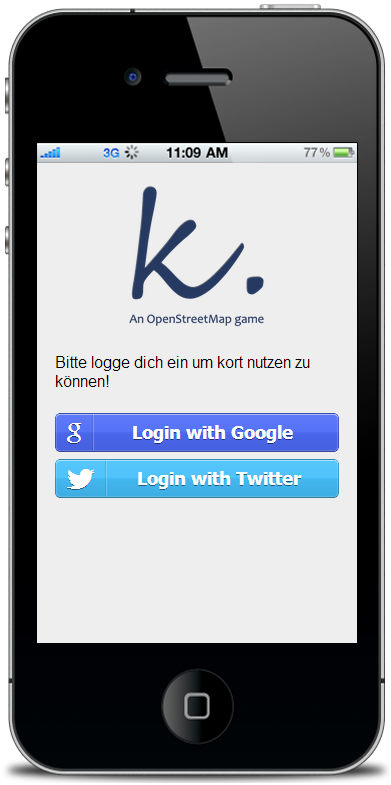
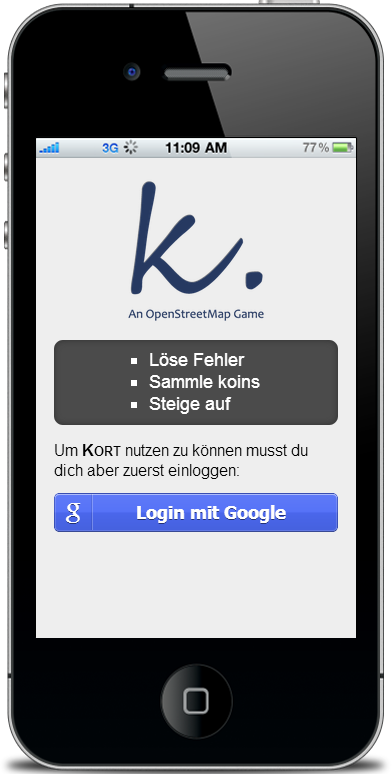
documented implementation

diff --git a/_DOCUMENTATION/02_Documentation/body/implementation.tex b/_DOCUMENTATION/02_Documentation/body/implementation.tex
@@ -2,7 +2,13 @@
 \label{kort}
 
 \begin{center}
-\includegraphics[scale=0.8]{images/implementation/kort-icon_with_gloss}
+\begin{figure}[H]
+\begin{center}
+\subfigure{\includegraphics[scale=0.8]{images/implementation/kort-icon_with_gloss}}
+\hspace{1cm}
+\subfigure{\includegraphics[scale=0.8]{images/implementation/kort_herokuapp_com-qrcode}}
+\end{center}
+\end{figure}
 
 {\large \textbf{\url{http://kort.herokuapp.com/}}}
 
@@ -11,9 +17,9 @@
 \begin{figure}[H]
 \subfigure{\includegraphics[width=0.3\textwidth]{images/screenshots/kort-screenshot-login}}
 \hfill
-\subfigure{\includegraphics[width=0.3\textwidth]{images//screenshots/kort-screenshot-choose_username}}
-\hfill
 \subfigure{\includegraphics[width=0.3\textwidth]{images/screenshots/kort-screenshot-bugmap}}
+\hfill
+\subfigure{\includegraphics[width=0.3\textwidth]{images/screenshots/kort-screenshot-profile}}
 \end{figure}
 \end{center}
 
@@ -34,7 +40,7 @@
 
 \subsection{Paper-Prototype}
 Vor der Implementation der Oberfläche wurde ein Paper-Prototype des GUI-Designs erstellt.
-Der Prototype besteht aus vier verschiedenen Hauptmasken und einem Overlay für den Login.
+Der Prototype besteht aus vier Hauptmasken und einem Overlay für den Login.
 
 \subsubsection{Overlay: Login}
 Beim ersten Starten der \gls{WebApp} erhält man die Möglichkeit sich über verschiedene Dienste anzumelden.
@@ -92,3 +98,136 @@ Die Profil-Maske bietet zudem die Möglichkeit sich von der App abzumelden.
 \hfill
 \subfigure[Profil]{\includegraphics[width=0.43\textwidth]{images/paperprototype/kort-pp-profile}}
 \end{figure}
+
+% Design
+\section{Design}
+
+% Implementation
+\section{Implementation}
+
+\subsection{Starten der App}
+Beim Starten der App wird duch mehrere Entscheidungen festgelegt, welche Maske dem Benutzer angezeigt wird. In Abbildung \ref{image-kort-startup-activitydiagram} ist der Ablauf grob dargestellt.
+
+\begin{figure}[H]
+	\centering
+	\includegraphics[scale=0.55]{images/uml/kort-startup-activitydiagram}
+	\caption{Ablauf beim Starten der App}
+	\label{image-kort-startup-activitydiagram}
+\end{figure}
+
+Schlussendlich wird dem Benutzer eine der folgenden Masken angezeigt:
+
+\begin{itemize}
+\item Geolocation Fehler Maske: Wenn Geolocation nicht gelesen werden kann.
+\item Login Maske: Wenn Benutzer noch nicht eingeloggt ist
+\item Erste Schritte Maske: Wenn Benutzer noch keinen Benutzernamen gewählt hat
+\item Hauptmaske: Falls alles andere geklappt hat
+\end{itemize}
+
+\subsection{Sencha Cmd}
+\label{sencha-cmd}
+Das Grundgerüst der App wurde komplett mit dem Sencha-eigenen Build-Tool \emph{Sencha Cmd 3.0.0}\footnote{\url{http://www.sencha.com/products/sencha-cmd}} generiert.
+Dieses bietet verschiedene Build-Möglichkeiten an:
+
+\begin{table}[H]
+\centering
+\begin{tabular}{|p{0.2\twocelltabwidth}|p{0.8\twocelltabwidth}|}
+\hline
+\textbf{Build} & \textbf{Beschreibung} \\
+\hline
+testing & Bei diesem Build werden die JavaScript-Quelldateien in einer Datei zusammengefasst. Zusätzlich werden lediglich die verwendeten Dateien kopiert. \\
+\hline
+production & Der Production-Build entspricht grundsätzlich dem Testing-Build. Zusätzlich werden aber noch die JavaScript-Quelldateien komprimiert. \\
+\hline
+package/native & Mit diesen Builds lassen sich native Apps für die verschiedenen mobilen Betriebssysteme generieren. \\
+\hline
+\end{tabular}
+\caption{Verschiedene Build-Möglichkeiten mit Sencha Cmd}
+\label{table-sencha-cmd-build}
+\end{table}
+
+Durch den Einsatz von Sencha Cmd wird es möglich mit einem geringen Mehraufwand, eine native App zu generieren und diese in den verschiedenen App-Stores (Apples AppStore, Google Play Store) anzubieten.
+
+\subsubsection{Konfiguration}
+Der Buildprozess wird in der Datei \inlinecode{app.json} konfiguriert.
+
+\begin{table}[H]
+\centering
+\begin{tabular}{|p{0.2\twocelltabwidth}|p{0.8\twocelltabwidth}|}
+\hline
+\textbf{Property} & \textbf{Beschreibung} \\
+\hline
+\inlinecode{"js"} & Hier können die JavaScript-Quelldateien, welche von der App verwendet werden eingetragen werden. Diese werden im Buildprozess automatisch in den \inlinecode{<head>}-Bereich des \inlinecode{index.html}-Files geschrieben. \\
+\hline
+\inlinecode{"css"} & Ähnlich wie das \inlinecode{"js"}-Property nur für CSS-Ressourcen. \\
+\hline
+\inlinecode{"ressources"} & Hier können weitere Ressourcen wie Grafiken oder Libraries angegeben werden. \\
+\hline
+\end{tabular}
+\caption{Wichtige Konfigurations-Eigenschaften in Sencha Cmd (app.json)}
+\label{table-sencha-cmd-appjson}
+\end{table}
+
+Zusätzlich ist in der Datei \inlinecode{.sencha/app/sencha.cfg} der Classpath für die App definiert.
+
+Weitere Informationen zur Konfiguration findet man im entsprechendem Guide der Sencha Docs\footnote{\url{http://docs.sencha.com/touch/2-1/\#!/guide/command\_app}}.
+
+\subsection{Internernationalisierung (i18n)}
+\label{i18n}
+Die Oberfläche von \textsc{Kort} wurde bereits für eine mögliche Übersetzung vorbereitet.
+Dazu wurde das Plugin \emph{Ext.i18n.Bundle-touch}\footnote{\url{https://github.com/elmasse/Ext.i18n.Bundle-touch}} für Sencha Touch eingesetzt. Dieses ermöglicht es einzelne Texte in externen Sprach-Property-Files auszulagern.
+
+Bei \textsc{Kort} befinden sich diese Files im Verzeichnis \inlinecode{/resources/i18n/} und müssen nach folgendem Schema benannt werden: \inlinecode{Kort\_<locale>.props}.
+Die verwendete Sprache ist in der Funktion \inlinecode{prepareI18n()} der Datei \inlinecode{app.js} festgelegt.
+
+\lstset{language=JavaScript}
+\begin{lstlisting}[caption=kort - Sprache definieren, label=kort-choose-language]
+prepareI18n: function() {
+	Ext.i18n.Bundle.configure({
+		bundle: 'Kort',
+		language: 'de-CH',
+		path: 'resources/i18n',
+		noCache: true
+	});
+}
+\end{lstlisting}
+
+Hier kann über das \inlinecode{language}-Property die Sprache konfiguriert werden.
+Falls das Property weggelassen wird, wird die aktuelle Spracheinstellung des Browsers verwendet.
+Wird dabei die entsprechende Datei nicht gefunden, verwendet das Plugin die Datei \inlinecode{Kort.props}.
+
+% Testing
+\section{Testing}
+
+% Resultate
+\section{Resultate}
+
+\subsection{Bekannte Fehler}
+
+\subsubsection{iOS - Add to homescreen}
+Eine sehr nützliche Funktionalität, welche Apple im Mobile Safari-Browser anbietet ist die \emph{Add to homescreen}-Funktion.
+
+\begin{figure}[H]
+\subfigure{\includegraphics[width=0.23\textwidth]{images/bugs/kort-add_to_homescreen_1}}
+\hfill
+\subfigure{\includegraphics[width=0.23\textwidth]{images/bugs/kort-add_to_homescreen_2}}
+\hfill
+\subfigure{\includegraphics[width=0.23\textwidth]{images/bugs/kort-add_to_homescreen_3}}
+\hfill
+\subfigure{\includegraphics[width=0.23\textwidth]{images/bugs/kort-add_to_homescreen_4}}
+\caption{iOS - "`Add to homescreen"'-Funktion}
+\end{figure}
+
+Dadurch wird ein App-ähnlicher Bookmark der aktuellen Webseite auf dem Homescreen erstellt.
+Dieser erhält ein hinterlegtes Icon und einen Titel.
+Beim Starten der App erscheint ein Splashscreen, welchen man ebenfalls in der Webseite definieren kann. Zudem öffnet sich der Browser ohne jegliche Toolbars wie der Adressleiste oder der Navigationsbar.
+
+Leider hat die verwendete Version (2.1.0) des Sencha Touch Frameworks Fehler bei der Anzeige von einigen GUI-Komponenten.
+So werden in unserem Fall die Karte (Aufträge) und alle Listen (Prüfen, Highscore) nicht korrekt dargestellt.
+
+\subsubsection{App Build}
+Wie in Abschnitt \ref{sencha-cmd} beschrieben, basiert die App vollständig auf dem Sencha-eigenen Build-Tool \emph{Sencha Cmd 3.0.0}. Darin sind aber noch einige Bugs vorhanden.
+
+Bei \textsc{Kort} besteht dabei ein Problem bei der fest eingebauten Komprimierung der JavaScript-Sourcen.
+Während diesem Prozess werden lokale Variablennamen mit einzelnen Buchstaben abgekürzt.
+Dabei treten Konflikte mit der Leaflet-Library auf, welche den Buchstaben \emph{L} als Namespace verwendet. 

diff --git a/_DOCUMENTATION/02_Documentation/body/projektmanagement_monitoring/sprint1.tex b/_DOCUMENTATION/02_Documentation/body/projektmanagement_monitoring/sprint1.tex
@@ -3,7 +3,7 @@
 \todo[inline]{Text anpassen für Sprint 1}
 
 Alle Informationen zum Sprint 1 sind auch in unserem Wiki zu finden:
-\url{http://redmine.rdmr.ch/redmine/projects/gftprototype/wiki/Sprint_1}
+\url{http://kort.rdmr.ch/redmine/versions/1}
 
 \subsubsection{Hauptaufgaben / Fokussierung im Sprint}
 
@@ -11,35 +11,41 @@ Alle Informationen zum Sprint 1 sind auch in unserem Wiki zu finden:
 	\item Aufsetzen der Infrastruktur (Repository, Projektmanagement, Entwicklungsumgebung, Server)
 	\item Einarbeitung in die Thematik
 	\begin{itemize}
-		\item GIS
-		\item Google Fusion Tables (GFT)
+		\item Gamification
+		\item Highscore API (?)
+		\item OpenStreetMap
+		\item OpenLayers
 		\item allenfalls weitere \gls{API}s
 	\end{itemize}
-	\item Erarbeitung eines ersten Roundtrips um Daten von und zu Google Fusion Tables zu schicken/empfangen
+	\item Wrapper für OpenStreetMap in Sencha Touch
 	\item Projektsetup
 	\begin{itemize}
 		\item GitHub\footnote{\url{http://www.github.com}} als Repository
-		\item LaTex\footnote{\url{http://www.latex-project.org}} für Dokumentation
-		\item Jenkins \footnote{\url{http://jenkins-ci.org}} für Continuous Integration (CI)
+		\item \LaTeX{}\footnote{\url{http://www.latex-project.org}} für Dokumentation
+		\item Heroku\footnote{\url{http://www.heroku.com}} fürs Hosting
+		\item Travis \footnote{\url{http://travis-ci.org}} für Continuous Integration (CI)
 		\item Redmine \footnote{\url{http://www.redmine.org}} für Projektmanagement/Wiki/Bugtracker
-		\item Scrum als Methodik
+		\item Scrum \footnote{\url{http://de.wikipedia.org/wiki/Scrum}} als Methodik
 	\end{itemize}
 \end{itemize}
 
 \subsubsection{Ziele}
 \begin{itemize}
-	\item Google Fusion Table \gls{API} kennen lernen, Potential abschätzen können
-	\item Erster Prototyp mit GFT bauen (Roundtrip mit \gls{CRUD}-Operationen)
+	\item OpenStreetMap genauer kennenlernen (Daten, Struktur, API) können
+	\item Integration in Sencha sicherstellen
+	\item Konzept der \emph{Gamification} erarbeiten
 \end{itemize}
 
 \subsubsection{Abgabe / Deliverables}
-Wir sind im ersten Sprint gut vorangekommen und konnten mit zahlreichen aufeiander aufbauenden Beispielen lernen wie das \gls{API} funktioniert und welche Möglichkeiten es bietet: Abfragen erstellen, Zugriff via \gls{API}, Zugriff via Google Maps Layer (FusionTablesLayer).
 
 \begin{itemize}
-	\item Repository, Build-Server und Projekmanagement-Tool aufgesetzt (siehe Kapitel \ref{infrastruktur})
-	\item Lauffähiger Prototyp mit Unit-Test für \gls{CRUD}-Operationen
-	\item Zahlreiche Beispiele um die Funktionsweise des \gls{API}s zu testen
+	\item Übersicht zum Projekt hier auf Redmine (Sprints, Issues/Tasks, generelle Infos)
+	\item Projekt-Setup mit GitHub, Heroku und Jenkins
+	\item Lauffähiger Prototyp mit OpenStreetMap in Sencha Touch
 \end{itemize}
 
+\subsubsection{Erledigte Arbeiten}
+Im ersten Sprint konnten wir bereits einiges erledigen. So gelang uns ein automatisierter Build der App zu Heroku. Zudem haben wir eine Sencha Touch Komponente für OpenLayers erstellt, um OpenStreetMap Daten in der App darstellen zu können. Ebenfalls gelang es uns mit dem Plugin \emph{Ext.i18n.bundle-touch} die Internationalisierung der App vorzubereiten.
+
 \subsubsection{Probleme}
-Es ist uns nicht gelungen den Roundtrip zu erstellen, d.h. Daten vom Benutzer in Fusion Tables zu speichern und diese wieder abzufragen. Wie sich herausgestellt hat, müssen schreibende Zugriffe autorisiert sein. Dazu empfiehlt Google \gls{OAuth} zu benutzen. Diese Thematik war schlicht zu gross um im ersten Sprint anzuschauen. Die schreibenden Zugriffe sind deshalb Ziel für den 2. Sprint geworden. 
+Leider mussten wir feststellen, dass OpenLayers Library eine nicht mehr wirklich zeitgemässe Bedienung aufweist. Wir werden deshalb im zweiten Sprint nach Alternativen dafür suchen.

diff --git a/_DOCUMENTATION/02_Documentation/body/projektdokumentation/backend_administration.tex b/_DOCUMENTATION/02_Documentation/body/projektdokumentation/backend_administration.tex
@@ -37,17 +37,17 @@ In Tabelle \ref{kort-view-types-table} sind die bereits vorhandenen View-Typen b
 
 \begin{table}[H]
 \centering
-\begin{tabular}{|p{0.2\twocelltabwidth}|p{0.8\twocelltabwidth}|}
-\hline 
-\textbf{Typ} & \textbf{Beschreibung} \\ 
-\hline 
-text & Rendert ein Text-Eingabefeld \\ 
-\hline 
-number & Rendert ein Zahl-Eingabefeld \\ 
-\hline 
-select & Rendert eine Select-Box mit vorgefüllten Werten aus der Datenbank \\ 
-\hline 
-\end{tabular} 
+\begin{tabular}{|p{0.15\twocelltabwidth}|p{0.85\twocelltabwidth}|}
+\hline
+\textbf{Typ} & \textbf{Beschreibung} \\
+\hline
+text & Rendert ein Text-Eingabefeld \\
+\hline
+number & Rendert ein Zahl-Eingabefeld \\
+\hline
+select & Rendert eine Select-Box mit vorgefüllten Werten aus der Datenbank \\
+\hline
+\end{tabular}
 \caption{kort: View-Typen}
 \label{kort-view-types-table}
 \end{table}
@@ -79,7 +79,7 @@ createFixField: function(bug) {
 Die bereits vorhandenen Auszeichnungen sind in Tabelle \ref{kort-badges} beschrieben. Um weitere Auszeichnungen hinzuzufügen, muss folgendermassen vorgegangen werden:
 
 \begin{enumerate}
-\item Badge muss in die Tabelle \inlinecode{kort.badge} eingefügt werden
+\item Es muss ein neuer Badge in der Tabelle \inlinecode{kort.badge} erstellt werden
 \item Zusätzlich muss die Regel für das Gewinnen des Badges in der Abfrage XY definiert werden. \todo[inline]{Abfrage erstellen und einfügen}
 \item Für das Frontend muss ein Bild erstellt werden, welches dem Namen (Tabellenattribut \inlinecode{kort.badge.name}) des Badges entspricht. Dieses Bild muss in folgendem Pfad gespeichert werden \inlinecode{/resources/images/badges/<badgename>.png}.
 \end{enumerate}

diff --git a/_DOCUMENTATION/02_Documentation/body/projektdokumentation/gamification.tex b/_DOCUMENTATION/02_Documentation/body/projektdokumentation/gamification.tex
@@ -34,7 +34,6 @@ Wir mussten dafür viele Begriffe aus dem Mapping-Vokabular für unserer breite 
 \subsection{Punktesystem "`koins"'}
 Eines der wichtigsten Elemente im Spiel bildet das Punktesystem. Dieses findet sicht bei beinahe allen Aktionen der App wieder. So gewinnt ein Spieler für gelöste Aufgaben oder getätigte Prüfungen eine Anzahl an sogenannten \emph{koins}. Über die Anzahl \emph{koins} kann er sich wiederum in der Highscore mit den anderen Spieler vergleichen.
 
-
 \begin{figure}[H]
 	\centering
 	\includegraphics[scale=0.4]{images/gamification/gamification-koin}
@@ -97,6 +96,11 @@ Man könnte als Belohnung für viele gelöste Fehler die Berechtigungen des Benu
 
 \subsubsection{Schwierigkeitsstufen}
 Beim Erreichen einer gewissen Punktzahl könnte man dem Benutzer schwierigere Fehler anzeigen.
+
+\subsubsection{Einbinden in Apple Game Center}
+Apple bietet mit dem \emph{Game Center} einen zentralen Ort an, Punkte und Auszeichnungen von Game-Apps zu speichern.
+Dadurch entsteht für die Spieler die Möglichkeit sich direkt mit anderen Spielern und Kollegen, die ebenfalls diese App verwenden, zu vergleichen.
+Eine grosse Einschränkung dabei ist aber, dass man lediglich iOS Games für das Game Center anmelden kann.
 
 \subsubsection{Design}
 Natürlich könnte man auch noch am Design einiges verändern, um den Spielspass zu erhöhen.

diff --git a/_DOCUMENTATION/02_Documentation/body/projektdokumentation/leaflet_sencha_komponente.tex b/_DOCUMENTATION/02_Documentation/body/projektdokumentation/leaflet_sencha_komponente.tex
@@ -37,8 +37,4 @@ GitHub & \url{https://github.com/tschortsch/Ext.ux.LeafletMap} \\
 \end{table}
 
 \subsection{Dokumentation}
-Die Komponente ist durchgängig mit der Sencha eigenen JavaScript-Dokumentationsprache JSDuck\footnote{\url{https://github.com/senchalabs/jsduck}} dokumentiert. Die Dokumentation findet sich unter:
-
-\begin{center}
-\url{http://kort.herokuapp.com/docs/Ext.ux.LeafletMap}
-\end{center}
+Die Komponente ist durchgängig mit der Sencha eigenen JavaScript-Dokumentationsprache JSDuck\footnote{\url{https://github.com/senchalabs/jsduck}} dokumentiert. Die Dokumentation findet sich unter: \url{http://kort.herokuapp.com/docs/Ext.ux.LeafletMap}
